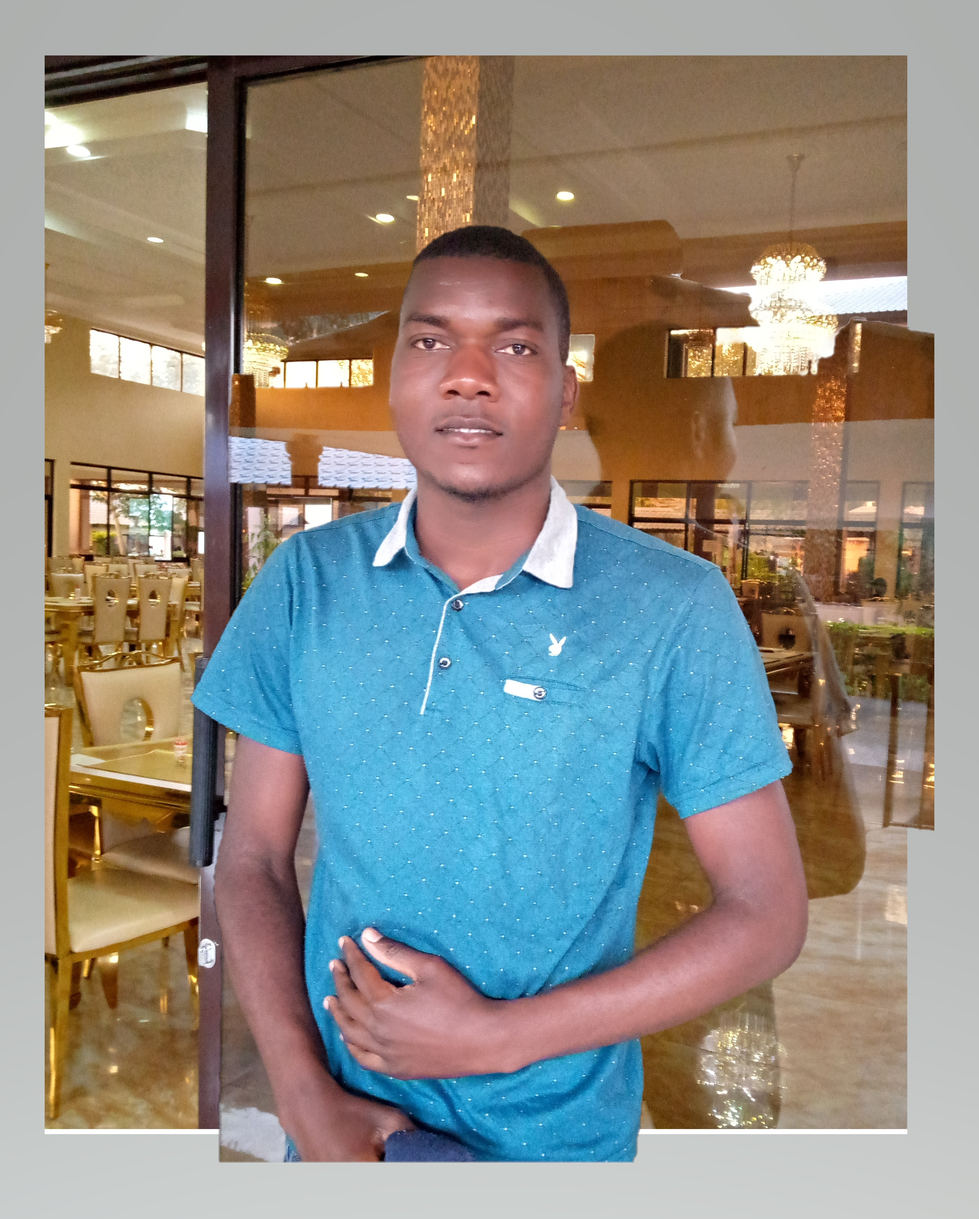
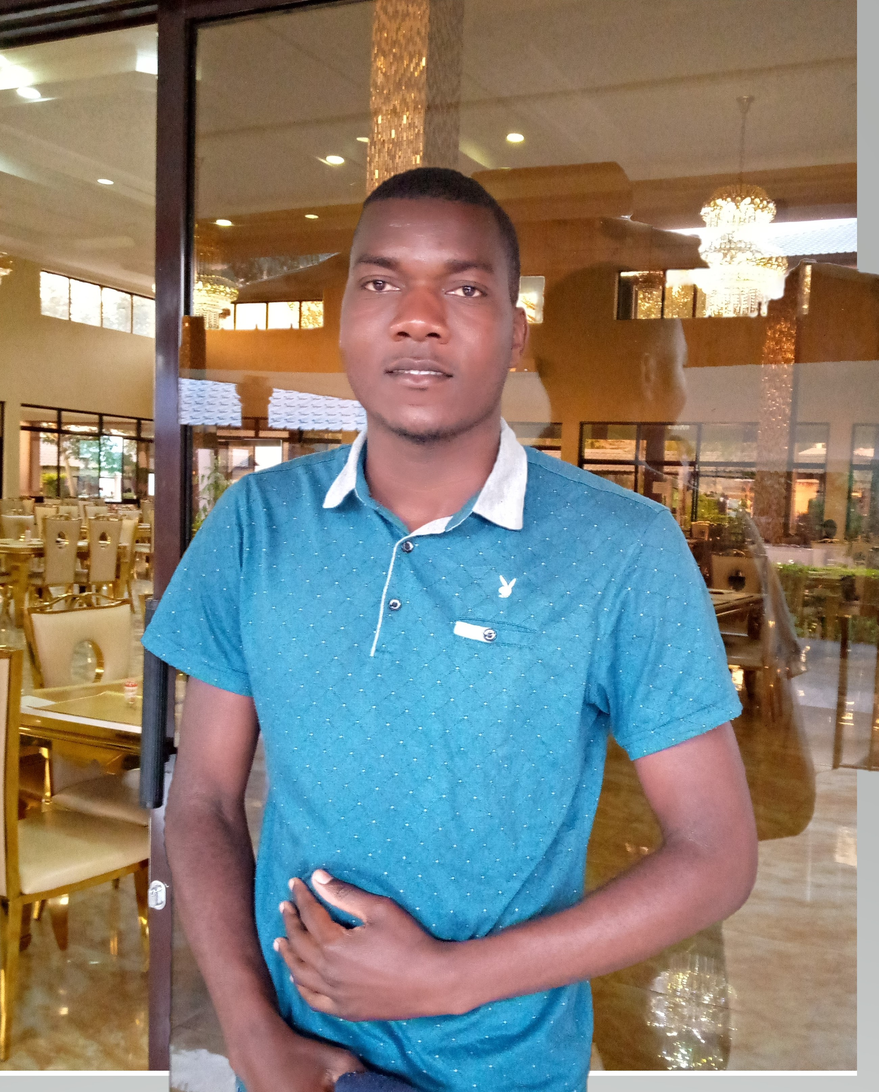
finalised work in step1

diff --git a/index.html b/index.html
@@ -10,21 +10,24 @@
 </head>
 <body>
     <div class="container">
-        <div>
+        <div class="login-container">
             <img class="eddie" src="eddie.jpg" />
+            <h3>Sign-in to use these services</h3>
+            <p>edsonmagombo920@gmail.com</p>
+            <Button class = "btn btn-primary" onclick= {www.google.com/sign} >Sign in with Google</Button>
         </div>
-    <h2>CONVERTER</h2>
-    <h2>converter your age in days or hours</h2>
+
+    <h2>converter your age in days</h2>
     <div class=" flex-buttons">
     <div>
-    <button class="btn btn-primary" onclick = "ageInDays()">convert</button>
+    <Button class="btn btn-primary" onclick = 'ageInDays()'>Convert</Button>
 </div>
 <div>
-      <button class="btn btn-danger">reset</button>
+      <Button class="btn btn-danger" onclick="reset()">reset</Button>
     </div>
 </div>
 <div class="flex-buttons">
-    <div id =" results"></div>
+    <div id = "results"></div>
     </div>
 </div>
 </body>

diff --git a/script.js b/script.js
@@ -6,12 +6,15 @@
 
 //LETS CREATE FUNCTIONS FOR CALCULATING DAYS FOR EVERY AGE YOU ENTER;
 function ageInDays() {
-var birthYear = prompt("WHAT YEAR WERE YOU BORN??");
-var ageInDayss= ( 2021 - birthYear) * 365;
-var h1 = document.createElement("h1");
-var textAnswer = document.createTextNode("You're " +ageInDayss+ "days old");
-h1.setAttribute('id' , 'ageInDays ');
+var birthYear = prompt('WHAT YEAR WERE YOU BORN??');
+var days= ( 2021 - birthYear) * 365;
+var h1 = document.createElement('h1');
+var textAnswer = document.createTextNode("You're " + days +" days old.");
+h1.setAttribute('id', 'ageInDays');
 h1.appendChild(textAnswer);
-document.getElementById("results").appendChild(h1);
- console.log(textAnswer);
+document.getElementById('results').appendChild(h1);
+ console.log(days);
+}
+function reset(){
+    document.getElementById('results').remove();
 }

diff --git a/index.css b/index.css
@@ -4,6 +4,7 @@
     text-align: center;
     padding: 20px;
     margin: auto;
+    background-color:skyblue;
 
 }
 .flex-buttons{
@@ -16,7 +17,7 @@
 
 }
 .flex-buttons div{
-    border: 1px SOLID black;
+    /* border: 1px SOLID black; */
     display: flex;
     padding: 10px;
     align-items: center;
@@ -33,4 +34,23 @@
 }
 .eddie{
     image-rendering: auto;
+}
+.login-container{
+    background-color: rgb(233, 227, 227);
+    padding: 20px;
+    box-shadow: 0 1px 3px black;
+    place-items:center;
+}
+.login-container > button{
+    
+    margin-top: 50px;
+    color: blanchedalmond;
+    background-color: rgb(76, 44, 192);
+}
+.eddie{
+    border-radius: 85%;
+    object-fit: contain;
+    height: 200px;
+    margin-bottom: 10px;
+    
 }
